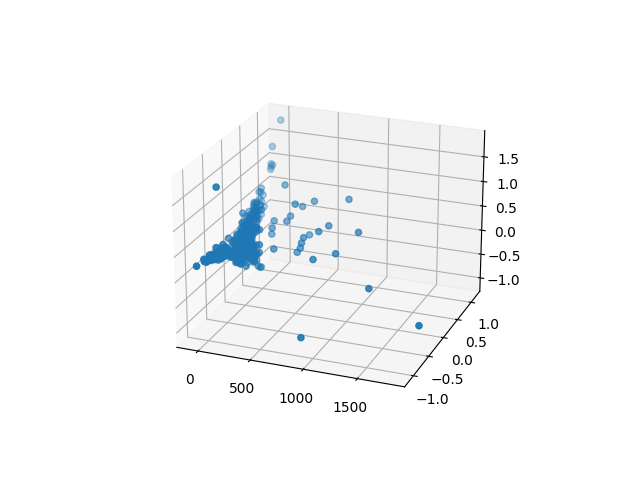
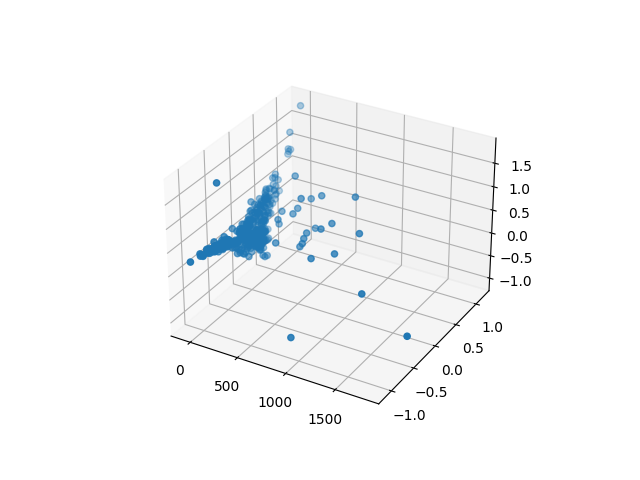
Change log:
(1) Organize code for plotting figures.

(2) Add correlation check function, the plot indicates that attribute 2 and attribute 3 are highly correlated, that being said, we select one of these two attributes. We may have to use another attribute to replace one of them.

(3) Update requirements.txt.

diff --git a/ML_main.py b/ML_main.py
@@ -8,7 +8,9 @@ from sklearn.metrics import confusion_matrix # confusion matrix
 from sklearn.metrics import classification_report # classification report
 from sklearn.decomposition import PCA # PCA analysis, for features
 
+import pandas as pd
 import matplotlib.pyplot as plt
+import seaborn as sns
 
 # perform SVM
 def ml_svm(dataset, label):
@@ -86,6 +88,24 @@ def pca_analysis(dataset):
     selected_dataset = pca.transform(dataset) # dataset with 3 selected features
     return selected_dataset
 
+# plot selected 3 attributes of dataset
+def plot_dataset(selected_dataset):
+    # plot dataset with 3 attributes
+    fig = plt.figure()
+    ax = fig.add_subplot(111, projection='3d')
+    ax.scatter(selected_dataset[:, 0], selected_dataset[:, 1],  selected_dataset[:, 2], marker='o')
+    plt.savefig(os.getcwd() + r"\Figure" + "\dataset_3_features.png")
+    plt.show()
+
+# plot correlation between attributes
+def plot_correlation_check(dataset):
+    Data = pd.DataFrame(dataset)
+    data = Data.corr()
+    sns.heatmap(data,cmap='Blues',annot=True, square=True, fmt='.2g')
+    plt.savefig(os.getcwd() + r"\Figure" + "\correlation.png")
+    plt.show()
+
+
 if __name__ == '__main__':
    
    # load dataset and label from dataset folder
@@ -113,10 +133,10 @@ if __name__ == '__main__':
    # RF
    ml_RF(selected_dataset, label)
 
-   # plot dataset with 3 attributes
-   fig = plt.figure()
-   ax = fig.add_subplot(111, projection='3d')
-   ax.scatter(selected_dataset[:, 0], selected_dataset[:, 1],  selected_dataset[:, 2], marker='o')
-   plt.show()
+   # plot dataset with 3 selected attributes
+   # plot_dataset(selected_dataset) # uncomment this to plot the dataset with 3 attributes in 3D space
+
+   # correlation check
+   plot_correlation_check(dataset)
   
 
